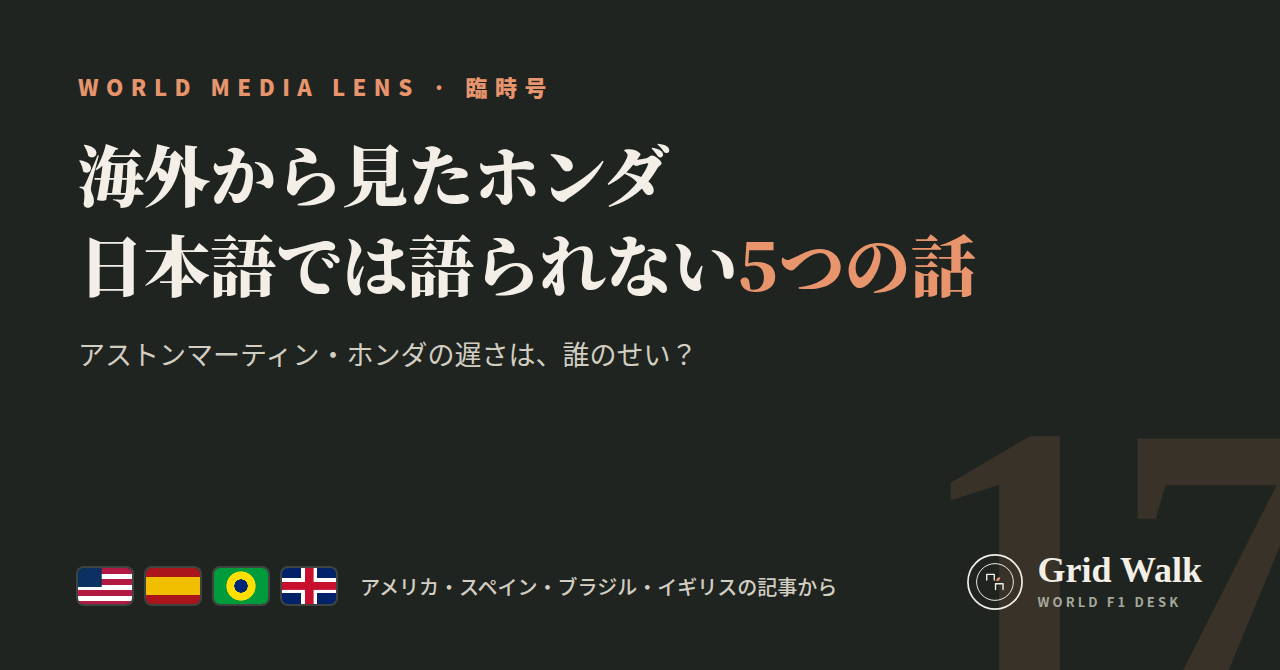
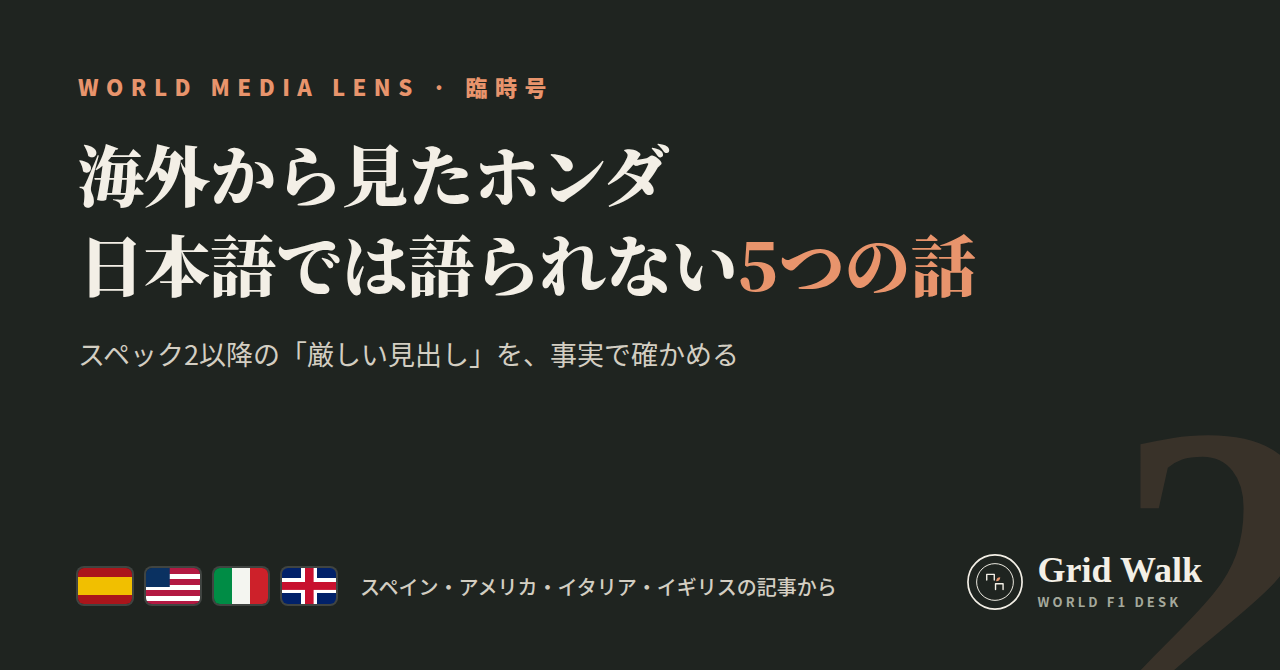
Honda note draft rebuilt (post-Spec 2, headlines vs facts)
Claude-Session: https://claude.ai/code/session_01WE27aHTKBZasMD64JNUTip

diff --git a/reserve/note_honda_コピー用.html b/reserve/note_honda_コピー用.html
@@ -1,5 +1,5 @@
 <!doctype html><html lang="ja"><head><meta charset="utf-8"><meta name="viewport" content="width=device-width,initial-scale=1">
-<title>note用原稿：海外から見たホンダ。日本語では語られない、アストンマーティン・ホンダの5つの話</title>
+<title>note用原稿：海外から見たホンダ。スペック2以降、日本語では語られない5つの話</title>
 <style>
 :root{color-scheme:light}
 body{margin:0;background:#F3EFE6;color:#1F2420;font-family:-apple-system,'Hiragino Sans','Noto Sans JP',sans-serif;line-height:1.8}
@@ -30,9 +30,9 @@ body{margin:0;background:#F3EFE6;color:#1F2420;font-family:-apple-system,'Hiragi
 <li>公開設定でハッシュタグを貼り付けて公開</li>
 <li>公開する前にClaudeに一言。サイトの答え合わせのページを同時に公開します</li></ol>
 <p style="margin:0">※ 貼り付けたあと見出しが普通の文字になっていたら、その行を選んで「大見出し」にしてください。URLだけの行は、noteがリンクカードにしてくれます。</p></div>
-<div class="box"><div class="lbl">タイトル</div><div id="title">海外から見たホンダ。日本語では語られない、アストンマーティン・ホンダの5つの話</div></div>
-<div class="box"><div class="lbl">ハッシュタグ</div><div id="tags">#F1 #ホンダ #アストンマーティン #アロンソ #ストロール #モータースポーツ</div></div>
-<div class="box"><div class="lbl">本文</div><div id="body"><p>アストンマーティン・ホンダ、苦しいシーズンが続いています。15戦で3点。コンストラクターズは11チーム中10位。</p><p>日本でもホンダのコメントは毎戦伝えられます。でも海外の記事を読み比べると、そこには、また別の顔があるんです。</p><p>今回はアメリカ・スペイン・ブラジル・イギリスの記事から、日本語では語られていない5つの話を拾ってきました。</p><h2>1. 渡辺社長「振動の原因は100％PU側」（アメリカ）</h2><p>アメリカの自動車メディアThe Driveに、ホンダ・レーシングの渡辺康治社長が開幕直後の内幕を語っています。</p><p>マシンを揺らしたあの振動について、渡辺社長はこう言い切りました。</p><blockquote><p>「発生源の責任は100％PU側にあると思う」</p></blockquote><p>ただし、振動が車体を通じて大きくなった分については、どちらの責任かの割合は言いませんでした。</p><p>オーストラリアGPのあと、アストンマーティンとの会議は「とても深刻で、とても緊迫していた」。短期間で人材を集めるのは「現実的にとても難しかった」とし、「大きな後悔とともに振り返っている」とも。</p><p>当面の目標は「トップ10を争い、ポイントを取り始めること」。</p><p>日本語の記事で伝えられていたのは、「PUだけでは解決できない」という言葉のほう。この「100％」は見当たりませんでした。</p><h2>2. 15戦で3点。「最悪だった2015年」より悪い（スペイン）</h2><p>スペインのオートノシオンの見出しは「AMR26は、アロンソの最悪のマクラーレン・ホンダに似てきた」。</p><p>アロンソのポイントで比べると、こうなります。</p><ul><li>2015年（マクラーレン・ホンダ）：15戦で11点</li><li>2026年（アストンマーティン・ホンダ）：15戦で3点</li></ul><p>今年の3点は、モナコの10位とオランダの9位だけ。</p><p>イギリスのF1 Oversteerの集計では、チームの未完走も今季17回。マクラーレン・ホンダの2015年（14回）と2017年（15回）を、シーズンを残してもう超えてしまいました。</p><p>オートノシオンが挙げる問題は「振動、バッテリー、ドライバビリティ、不安定な燃焼」。※数字は各媒体の集計です。</p><h2>3. 「F2より遅い」は本当？（スペイン）</h2><p>バクーでは「アストンマーティンの最高速はF2より下」という話が世界中を駆けめぐりました。日本でも大きく報じられ、スペインのOKDiarioは「アストンマーティンとホンダ、バクーで赤っ恥」。</p><p>そこに待ったをかけたのが、スペインのmotor.esです。</p><ul><li>F1とF2では、速度を測った地点が違う</li><li>2026年のF1は、ストレートの終わりで電気の出力が途切れる（クリッピング）</li><li>電気を使わないF2は、そのまま加速を続ける</li></ul><p>だから、そのまま比べるのは不公平だ、と。</p><p>でも、かばってくれたわけではありません。結論はこうです。</p><blockquote><p>「ホンダが今季、笑いものすれすれなのは間違いない。でも、その理由は最高速の比較ではない」</p></blockquote><h2>4. アロンソ「1.5秒失った」、ホンダ「データでは問題なし」（スペイン）</h2><p>バクーの決勝、アロンソはレースの途中でリタイアしました。本人いわく「警告は何も出なかった。全部正常に動いていたのに、ストレートで1.5秒くらい失い始めた」。</p><p>これに対してホンダの折原伸太郎GMは、スペインのMotorsport.comにこう話しています。</p><blockquote><p>「今あるデータはすべて確認したが、今のところエンジンは問題ない」</p></blockquote><p>そのうえで、エンジンの出力、エネルギーマネジメント、そして「もしかするとGPS」まで確認する、と。</p><p>ドライバーの体感と、データ。食い違ったままです。</p><p>日本語の記事で伝えられていたのは、ホンダの公式コメント「現在我々が持つパッケージとしてこれ以上は望めない」のほう。この反論は見当たりませんでした。</p><h2>5. 「無線を貸して」（ブラジル）</h2><p>同じバクーの決勝序盤、マシンを止めたストロール。コース脇で、マーシャルにこう迫ったそうです。</p><blockquote><p>「レースの終わりまでここで待つつもりはない。もう行く」「無線を貸して」</p></blockquote><p>止まった理由は、本人いわく「水圧の問題があって、止めるように言われた」。（Grande Prêmio）</p><p>リタイアは日本でも報じられましたが、このひと幕は見当たりませんでした。</p><h2>おまけ：遅いのは、ホンダのせい？</h2><p>開幕前、イギリスでは「責任はホンダに」という見出し。春には「遅れの半分以上は車体」という分析。そして秋、ホンダ自身が「これがPUの実力」。</p><p>見方は、季節ごとに揺れてきました。</p><p>3月から9月まで、6つの証拠を時系列で並べると、見えてくるものがあります。カギは「いつの話なのか」。</p><p><strong>証拠と、あなたの判定（投票）はこちらで。</strong></p><p><a href="https://f1gridwalk.github.io/lens/honda-abroad-2026/">https://f1gridwalk.github.io/lens/honda-abroad-2026/</a></p><p>今回読んだ記事の原文リンクも、ここにまとめてあります。</p><h2>出典</h2><p>・The Drive（アメリカ）</p><p><a href="https://www.thedrive.com/news/inside-hondas-shaky-return-to-f1-racing-boss-watanabe-talks-vibrations-tense-meetings-whats-next">https://www.thedrive.com/news/inside-hondas-shaky-return-to-f1-racing-boss-watanabe-talks-vibrations-tense-meetings-whats-next</a></p><p>・Autonocion（スペイン）</p><p><a href="https://www.autonocion.com/motornocion/aston-martin-amr26-peor-mclaren-honda-alonso/">https://www.autonocion.com/motornocion/aston-martin-amr26-peor-mclaren-honda-alonso/</a></p><p>・F1 Oversteer（イギリス）</p><p><a href="https://www.f1oversteer.com/news/lance-stroll-just-set-18-year-f1-dnf-record-with-latest-aston-martin-retirement-at-azerbaijan-gp/">https://www.f1oversteer.com/news/lance-stroll-just-set-18-year-f1-dnf-record-with-latest-aston-martin-retirement-at-azerbaijan-gp/</a></p><p>・motor.es（スペイン）</p><p><a href="https://www.motor.es/formula-1/aston-martin-lento-recta-f2-datos-baku-desmienten-memes-honda-2026116626.html">https://www.motor.es/formula-1/aston-martin-lento-recta-f2-datos-baku-desmienten-memes-honda-2026116626.html</a></p><p>・Motorsport.com España（スペイン）</p><p><a href="https://es.motorsport.com/f1/news/honda-niega-problemas-motor-denunciados-alonso-baku/10859541/">https://es.motorsport.com/f1/news/honda-niega-problemas-motor-denunciados-alonso-baku/10859541/</a></p><p>・Grande Prêmio（ブラジル）</p><p><a href="https://grandepremio.com/en/f1/stroll-clashes-with-marshal-after-azerbaijan-gp-retirement-give-me-the-radio/">https://grandepremio.com/en/f1/stroll-clashes-with-marshal-after-azerbaijan-gp-retirement-give-me-the-radio/</a></p><p>※「日本語では語られない」は、autosport web、F1-Gate、Formula1-Data、motorsport.com日本版、TopNewsなどを日本語で検索した範囲での話です（9月28日時点）。見落としがあれば、ぜひ教えてください。</p><h2>WORLD MEDIA LENSについて</h2><p>世界のF1ニュースを日本語で読めるサイト「F1 Grid Walk」の連載です。ふだんは1レースにつき1本、世界の記事を読み比べて、日本語ではあまり見かけない話を届けています。今回は、レースの合間の臨時号です。フォローしてもらえると励みになります。</p><p><a href="https://f1gridwalk.github.io/">https://f1gridwalk.github.io/</a></p></div></div>
+<div class="box"><div class="lbl">タイトル</div><div id="title">海外から見たホンダ。スペック2以降、日本語では語られない5つの話</div></div>
+<div class="box"><div class="lbl">ハッシュタグ</div><div id="tags">#F1 #ホンダ #アストンマーティン #アロンソ #モータースポーツ</div></div>
+<div class="box"><div class="lbl">本文</div><div id="body"><p>8月のオランダGPでデビューした、ホンダの新しいPU「スペック2」。</p><p>海外では「F2より遅い」「70馬力差」「振り出しに戻った」と、厳しい見出しが並びました。</p><p>でも、その見出しの中身は、本当に事実と合っているのか。今回は海外の記事を原文までさかのぼって、公式発表やデータと一つずつ突き合わせてみました。</p><p>ホンダをかばう話ではありません。確かめられたことだけを書きます。</p><h2>1. 「F2より遅い」の比べ方（スペイン）</h2><p>バクーの金曜、「アストンマーティンはF2の全車より遅い」という比較が世界中で広まりました。日本でも報じられています。</p><p>比べていたのは、ゴールライン上の速度です。</p><p>スペインのmotor.esは、FIAの計測データを使って反論しました。2026年のF1は、長いストレートの終わりで電気の出力が途切れる（クリッピング）ため、ゴールライン付近では減速している。電気を使わないF2は、最後まで加速を続ける。</p><p>実際、同じゴールラインで比べると……</p><ul><li>フェラーリのハミルトン：314.1km/h</li><li>フェラーリのPUを積むハースのベアマン：307.3km/h</li><li>F2でいちばん遅かったボヤ：316.4km/h</li></ul><p>フェラーリ勢も、F2より下だったんです。</p><p>ただし、F1の先頭との約30km/hの差は本物。motor.esも「ホンダが今季、笑いものすれすれなのは間違いない。でも、その理由のひとつはF2との比較ではない」と結んでいます。</p><h2>2. 「100％PUの責任」には続きがあった（アメリカ）</h2><p>アメリカのThe Driveのインタビューで、ホンダ・レーシングの渡辺康治社長が「振動は100％ホンダの問題か」と聞かれました。見出しになったのは「100％PUの責任」。でも、答えの全体はこうです。</p><blockquote><p>「振動の発生源は、もちろんエンジンです。でもその振動は車体を通って増幅され、振動のレベルがずっと高くなる。発生源についての責任は100％PUにあると思う。ただ、ホンダとアストンマーティンの責任の割合や内訳を言うのは控えたい」</p></blockquote><p>「車体で増幅される」の部分は、見出しからきれいに消えていました。</p><h2>3. 「70馬力差」、その数字は何度も変わっていた（イタリア）</h2><p>9月1日、イタリアのAutoRacerが「ホンダはメルセデスから約70馬力遅れ、1周約1.2秒」と報じ、各国で引用されました。根拠は「AutoRacerが得た情報」。</p><p>同じ媒体の記事をさかのぼると、こうなっています。</p><ul><li>7月28日：トップとの差は「90馬力と言われている」、スペック2で35馬力・0.5秒の向上</li><li>8月20日：向上は15馬力ほど、0.2秒</li><li>9月1日：オランダで約17馬力の向上、メルセデスとの差は約70馬力</li></ul><p>ホンダは具体的な数字を出していません。FIAも性能の数値は公表していません。どの数字も、外から確かめる方法がないのが実情です。</p><h2>4. 「ニューウェイが正しかった」？（イギリス）</h2><p>3月、ニューウェイは「ホンダは元のチームの、推測だけど30％ほどで復帰した」と話しました。</p><p>6月、イギリスのF1 Oversteerは「ホンダ社長、ニューウェイが正しかったと認める」と見出しに書きます。</p><p>ところが、元になったThe Raceの記事で渡辺社長が話したのは、これでした。</p><blockquote><p>「一人のリーダーが戻るのに2か月かかることもあれば、3か月かかる人もいた。全員そろうまでに1年近くかかった」</p></blockquote><p>「30％」を認めた発言は、どちらの記事にもありません。</p><h2>5. 「計画的な移行」が「解任」「大混乱」に（イタリア）</h2><p>9月14日、ホンダはF1のPU開発責任者を10月1日付で交代すると発表しました。説明は「次世代への確実な技術継承を見据えた計画的な移行」。</p><p>イタリアの見出しは、こうでした。</p><ul><li>GPKingdom：「ホンダ大混乱、2026年エンジンの責任者が飛ぶ」（本文では「解任」）</li><li>f1-news.eu：「首が飛んだ。アストンマーティンの惨状の責任を取る」</li><li>Motorsport.comイタリア版：「衝撃のホンダ」</li></ul><p>交代の理由について、ホンダは「計画的な移行」以上のことは語っていません。</p><h2>おまけ：スペック2は、失敗だった？</h2><p>オランダGPのあと、スペインでは「振り出しに戻った」の見出しが並びました。一方でホンダは、日本のインタビューで「失っているタイムは、海外のメディアで言われているほど大きくはない」。</p><p>リタイアの原因、予選タイムの差、ホンダとアロンソの言葉。6つの証拠を並べると、見えてくるものがあります。</p><p>カギは、「何が良くなって、何がまだなのか」。</p><p><strong>証拠と、あなたの判定（投票）はこちらで。</strong></p><p><a href="https://f1gridwalk.github.io/lens/honda-abroad-2026/">https://f1gridwalk.github.io/lens/honda-abroad-2026/</a></p><p>今回読んだ記事の原文リンクも、すべてここにまとめてあります。</p><h2>出典</h2><p>・motor.es（スペイン）</p><p><a href="https://www.motor.es/formula-1/aston-martin-lento-recta-f2-datos-baku-desmienten-memes-honda-2026116626.html">https://www.motor.es/formula-1/aston-martin-lento-recta-f2-datos-baku-desmienten-memes-honda-2026116626.html</a></p><p>・The Drive（アメリカ）</p><p><a href="https://www.thedrive.com/news/inside-hondas-shaky-return-to-f1-racing-boss-watanabe-talks-vibrations-tense-meetings-whats-next">https://www.thedrive.com/news/inside-hondas-shaky-return-to-f1-racing-boss-watanabe-talks-vibrations-tense-meetings-whats-next</a></p><p>・AutoRacer（イタリア）</p><p><a href="https://autoracer.it/aston-martin-piano-newey-prende-forma-honda-lontana-70cv-power-unit/">https://autoracer.it/aston-martin-piano-newey-prende-forma-honda-lontana-70cv-power-unit/</a></p><p>・The Race（イギリス）</p><p><a href="https://www.the-race.com/formula-1/the-inside-story-of-hondas-painful-start-with-aston-martin/">https://www.the-race.com/formula-1/the-inside-story-of-hondas-painful-start-with-aston-martin/</a></p><p>・GPKingdom（イタリア）</p><p><a href="https://gpkingdom.it/168405/f1-ultimora-aston-martin-caos-honda/">https://gpkingdom.it/168405/f1-ultimora-aston-martin-caos-honda/</a></p><p>※「日本語では語られない」は、autosport web、F1-Gate、Formula1-Data、motorsport.com日本版、TopNewsなどを日本語で検索した範囲での話です（9月28日時点）。見落としがあれば、ぜひ教えてください。</p><h2>WORLD MEDIA LENSについて</h2><p>世界のF1ニュースを日本語で読めるサイト「F1 Grid Walk」の連載です。ふだんは1レースにつき1本、世界の記事を読み比べて、日本語ではあまり見かけない話を届けています。今回は、レースの合間の臨時号です。フォローしてもらえると励みになります。</p><p><a href="https://f1gridwalk.github.io/">https://f1gridwalk.github.io/</a></p></div></div>
 </div>
 <script>
 function copyEl(el, btn){

diff --git a/reserve/body_honda.py b/reserve/body_honda.py
@@ -1,64 +1,57 @@
-TITLE = "海外から見たホンダ。日本語では語られない、アストンマーティン・ホンダの5つの話"
-TAGS = "#F1 #ホンダ #アストンマーティン #アロンソ #ストロール #モータースポーツ"
+TITLE = "海外から見たホンダ。スペック2以降、日本語では語られない5つの話"
+TAGS = "#F1 #ホンダ #アストンマーティン #アロンソ #モータースポーツ"
 L = "https://f1gridwalk.github.io/lens/honda-abroad-2026/"
 B = [
-("p","アストンマーティン・ホンダ、苦しいシーズンが続いています。15戦で3点。コンストラクターズは11チーム中10位。"),
-("p","日本でもホンダのコメントは毎戦伝えられます。でも海外の記事を読み比べると、そこには、また別の顔があるんです。"),
-("p","今回はアメリカ・スペイン・ブラジル・イギリスの記事から、日本語では語られていない5つの話を拾ってきました。"),
-("h2","1. 渡辺社長「振動の原因は100％PU側」（アメリカ）"),
-("p","アメリカの自動車メディアThe Driveに、ホンダ・レーシングの渡辺康治社長が開幕直後の内幕を語っています。"),
-("p","マシンを揺らしたあの振動について、渡辺社長はこう言い切りました。"),
-("quote","「発生源の責任は100％PU側にあると思う」"),
-("p","ただし、振動が車体を通じて大きくなった分については、どちらの責任かの割合は言いませんでした。"),
-("p","オーストラリアGPのあと、アストンマーティンとの会議は「とても深刻で、とても緊迫していた」。短期間で人材を集めるのは「現実的にとても難しかった」とし、「大きな後悔とともに振り返っている」とも。"),
-("p","当面の目標は「トップ10を争い、ポイントを取り始めること」。"),
-("p","日本語の記事で伝えられていたのは、「PUだけでは解決できない」という言葉のほう。この「100％」は見当たりませんでした。"),
-("h2","2. 15戦で3点。「最悪だった2015年」より悪い（スペイン）"),
-("p","スペインのオートノシオンの見出しは「AMR26は、アロンソの最悪のマクラーレン・ホンダに似てきた」。"),
-("p","アロンソのポイントで比べると、こうなります。"),
-("list",["2015年（マクラーレン・ホンダ）：15戦で11点","2026年（アストンマーティン・ホンダ）：15戦で3点"]),
-("p","今年の3点は、モナコの10位とオランダの9位だけ。"),
-("p","イギリスのF1 Oversteerの集計では、チームの未完走も今季17回。マクラーレン・ホンダの2015年（14回）と2017年（15回）を、シーズンを残してもう超えてしまいました。"),
-("p","オートノシオンが挙げる問題は「振動、バッテリー、ドライバビリティ、不安定な燃焼」。※数字は各媒体の集計です。"),
-("h2","3. 「F2より遅い」は本当？（スペイン）"),
-("p","バクーでは「アストンマーティンの最高速はF2より下」という話が世界中を駆けめぐりました。日本でも大きく報じられ、スペインのOKDiarioは「アストンマーティンとホンダ、バクーで赤っ恥」。"),
-("p","そこに待ったをかけたのが、スペインのmotor.esです。"),
-("list",["F1とF2では、速度を測った地点が違う","2026年のF1は、ストレートの終わりで電気の出力が途切れる（クリッピング）","電気を使わないF2は、そのまま加速を続ける"]),
-("p","だから、そのまま比べるのは不公平だ、と。"),
-("p","でも、かばってくれたわけではありません。結論はこうです。"),
-("quote","「ホンダが今季、笑いものすれすれなのは間違いない。でも、その理由は最高速の比較ではない」"),
-("h2","4. アロンソ「1.5秒失った」、ホンダ「データでは問題なし」（スペイン）"),
-("p","バクーの決勝、アロンソはレースの途中でリタイアしました。本人いわく「警告は何も出なかった。全部正常に動いていたのに、ストレートで1.5秒くらい失い始めた」。"),
-("p","これに対してホンダの折原伸太郎GMは、スペインのMotorsport.comにこう話しています。"),
-("quote","「今あるデータはすべて確認したが、今のところエンジンは問題ない」"),
-("p","そのうえで、エンジンの出力、エネルギーマネジメント、そして「もしかするとGPS」まで確認する、と。"),
-("p","ドライバーの体感と、データ。食い違ったままです。"),
-("p","日本語の記事で伝えられていたのは、ホンダの公式コメント「現在我々が持つパッケージとしてこれ以上は望めない」のほう。この反論は見当たりませんでした。"),
-("h2","5. 「無線を貸して」（ブラジル）"),
-("p","同じバクーの決勝序盤、マシンを止めたストロール。コース脇で、マーシャルにこう迫ったそうです。"),
-("quote","「レースの終わりまでここで待つつもりはない。もう行く」「無線を貸して」"),
-("p","止まった理由は、本人いわく「水圧の問題があって、止めるように言われた」。（Grande Prêmio）"),
-("p","リタイアは日本でも報じられましたが、このひと幕は見当たりませんでした。"),
-("h2","おまけ：遅いのは、ホンダのせい？"),
-("p","開幕前、イギリスでは「責任はホンダに」という見出し。春には「遅れの半分以上は車体」という分析。そして秋、ホンダ自身が「これがPUの実力」。"),
-("p","見方は、季節ごとに揺れてきました。"),
-("p","3月から9月まで、6つの証拠を時系列で並べると、見えてくるものがあります。カギは「いつの話なのか」。"),
+("p","8月のオランダGPでデビューした、ホンダの新しいPU「スペック2」。"),
+("p","海外では「F2より遅い」「70馬力差」「振り出しに戻った」と、厳しい見出しが並びました。"),
+("p","でも、その見出しの中身は、本当に事実と合っているのか。今回は海外の記事を原文までさかのぼって、公式発表やデータと一つずつ突き合わせてみました。"),
+("p","ホンダをかばう話ではありません。確かめられたことだけを書きます。"),
+("h2","1. 「F2より遅い」の比べ方（スペイン）"),
+("p","バクーの金曜、「アストンマーティンはF2の全車より遅い」という比較が世界中で広まりました。日本でも報じられています。"),
+("p","比べていたのは、ゴールライン上の速度です。"),
+("p","スペインのmotor.esは、FIAの計測データを使って反論しました。2026年のF1は、長いストレートの終わりで電気の出力が途切れる（クリッピング）ため、ゴールライン付近では減速している。電気を使わないF2は、最後まで加速を続ける。"),
+("p","実際、同じゴールラインで比べると……"),
+("list",["フェラーリのハミルトン：314.1km/h","フェラーリのPUを積むハースのベアマン：307.3km/h","F2でいちばん遅かったボヤ：316.4km/h"]),
+("p","フェラーリ勢も、F2より下だったんです。"),
+("p","ただし、F1の先頭との約30km/hの差は本物。motor.esも「ホンダが今季、笑いものすれすれなのは間違いない。でも、その理由のひとつはF2との比較ではない」と結んでいます。"),
+("h2","2. 「100％PUの責任」には続きがあった（アメリカ）"),
+("p","アメリカのThe Driveのインタビューで、ホンダ・レーシングの渡辺康治社長が「振動は100％ホンダの問題か」と聞かれました。見出しになったのは「100％PUの責任」。でも、答えの全体はこうです。"),
+("quote","「振動の発生源は、もちろんエンジンです。でもその振動は車体を通って増幅され、振動のレベルがずっと高くなる。発生源についての責任は100％PUにあると思う。ただ、ホンダとアストンマーティンの責任の割合や内訳を言うのは控えたい」"),
+("p","「車体で増幅される」の部分は、見出しからきれいに消えていました。"),
+("h2","3. 「70馬力差」、その数字は何度も変わっていた（イタリア）"),
+("p","9月1日、イタリアのAutoRacerが「ホンダはメルセデスから約70馬力遅れ、1周約1.2秒」と報じ、各国で引用されました。根拠は「AutoRacerが得た情報」。"),
+("p","同じ媒体の記事をさかのぼると、こうなっています。"),
+("list",["7月28日：トップとの差は「90馬力と言われている」、スペック2で35馬力・0.5秒の向上","8月20日：向上は15馬力ほど、0.2秒","9月1日：オランダで約17馬力の向上、メルセデスとの差は約70馬力"]),
+("p","ホンダは具体的な数字を出していません。FIAも性能の数値は公表していません。どの数字も、外から確かめる方法がないのが実情です。"),
+("h2","4. 「ニューウェイが正しかった」？（イギリス）"),
+("p","3月、ニューウェイは「ホンダは元のチームの、推測だけど30％ほどで復帰した」と話しました。"),
+("p","6月、イギリスのF1 Oversteerは「ホンダ社長、ニューウェイが正しかったと認める」と見出しに書きます。"),
+("p","ところが、元になったThe Raceの記事で渡辺社長が話したのは、これでした。"),
+("quote","「一人のリーダーが戻るのに2か月かかることもあれば、3か月かかる人もいた。全員そろうまでに1年近くかかった」"),
+("p","「30％」を認めた発言は、どちらの記事にもありません。"),
+("h2","5. 「計画的な移行」が「解任」「大混乱」に（イタリア）"),
+("p","9月14日、ホンダはF1のPU開発責任者を10月1日付で交代すると発表しました。説明は「次世代への確実な技術継承を見据えた計画的な移行」。"),
+("p","イタリアの見出しは、こうでした。"),
+("list",["GPKingdom：「ホンダ大混乱、2026年エンジンの責任者が飛ぶ」（本文では「解任」）","f1-news.eu：「首が飛んだ。アストンマーティンの惨状の責任を取る」","Motorsport.comイタリア版：「衝撃のホンダ」"]),
+("p","交代の理由について、ホンダは「計画的な移行」以上のことは語っていません。"),
+("h2","おまけ：スペック2は、失敗だった？"),
+("p","オランダGPのあと、スペインでは「振り出しに戻った」の見出しが並びました。一方でホンダは、日本のインタビューで「失っているタイムは、海外のメディアで言われているほど大きくはない」。"),
+("p","リタイアの原因、予選タイムの差、ホンダとアロンソの言葉。6つの証拠を並べると、見えてくるものがあります。"),
+("p","カギは、「何が良くなって、何がまだなのか」。"),
 ("bold","証拠と、あなたの判定（投票）はこちらで。"),
 ("url",L),
-("p","今回読んだ記事の原文リンクも、ここにまとめてあります。"),
+("p","今回読んだ記事の原文リンクも、すべてここにまとめてあります。"),
 ("h2","出典"),
-("p","・The Drive（アメリカ）"),
-("url","https://www.thedrive.com/news/inside-hondas-shaky-return-to-f1-racing-boss-watanabe-talks-vibrations-tense-meetings-whats-next"),
-("p","・Autonocion（スペイン）"),
-("url","https://www.autonocion.com/motornocion/aston-martin-amr26-peor-mclaren-honda-alonso/"),
-("p","・F1 Oversteer（イギリス）"),
-("url","https://www.f1oversteer.com/news/lance-stroll-just-set-18-year-f1-dnf-record-with-latest-aston-martin-retirement-at-azerbaijan-gp/"),
 ("p","・motor.es（スペイン）"),
 ("url","https://www.motor.es/formula-1/aston-martin-lento-recta-f2-datos-baku-desmienten-memes-honda-2026116626.html"),
-("p","・Motorsport.com España（スペイン）"),
-("url","https://es.motorsport.com/f1/news/honda-niega-problemas-motor-denunciados-alonso-baku/10859541/"),
-("p","・Grande Prêmio（ブラジル）"),
-("url","https://grandepremio.com/en/f1/stroll-clashes-with-marshal-after-azerbaijan-gp-retirement-give-me-the-radio/"),
+("p","・The Drive（アメリカ）"),
+("url","https://www.thedrive.com/news/inside-hondas-shaky-return-to-f1-racing-boss-watanabe-talks-vibrations-tense-meetings-whats-next"),
+("p","・AutoRacer（イタリア）"),
+("url","https://autoracer.it/aston-martin-piano-newey-prende-forma-honda-lontana-70cv-power-unit/"),
+("p","・The Race（イギリス）"),
+("url","https://www.the-race.com/formula-1/the-inside-story-of-hondas-painful-start-with-aston-martin/"),
+("p","・GPKingdom（イタリア）"),
+("url","https://gpkingdom.it/168405/f1-ultimora-aston-martin-caos-honda/"),
 ("p","※「日本語では語られない」は、autosport web、F1-Gate、Formula1-Data、motorsport.com日本版、TopNewsなどを日本語で検索した範囲での話です（9月28日時点）。見落としがあれば、ぜひ教えてください。"),
 ("h2","WORLD MEDIA LENSについて"),
 ("p","世界のF1ニュースを日本語で読めるサイト「F1 Grid Walk」の連載です。ふだんは1レースにつき1本、世界の記事を読み比べて、日本語ではあまり見かけない話を届けています。今回は、レースの合間の臨時号です。フォローしてもらえると励みになります。"),
